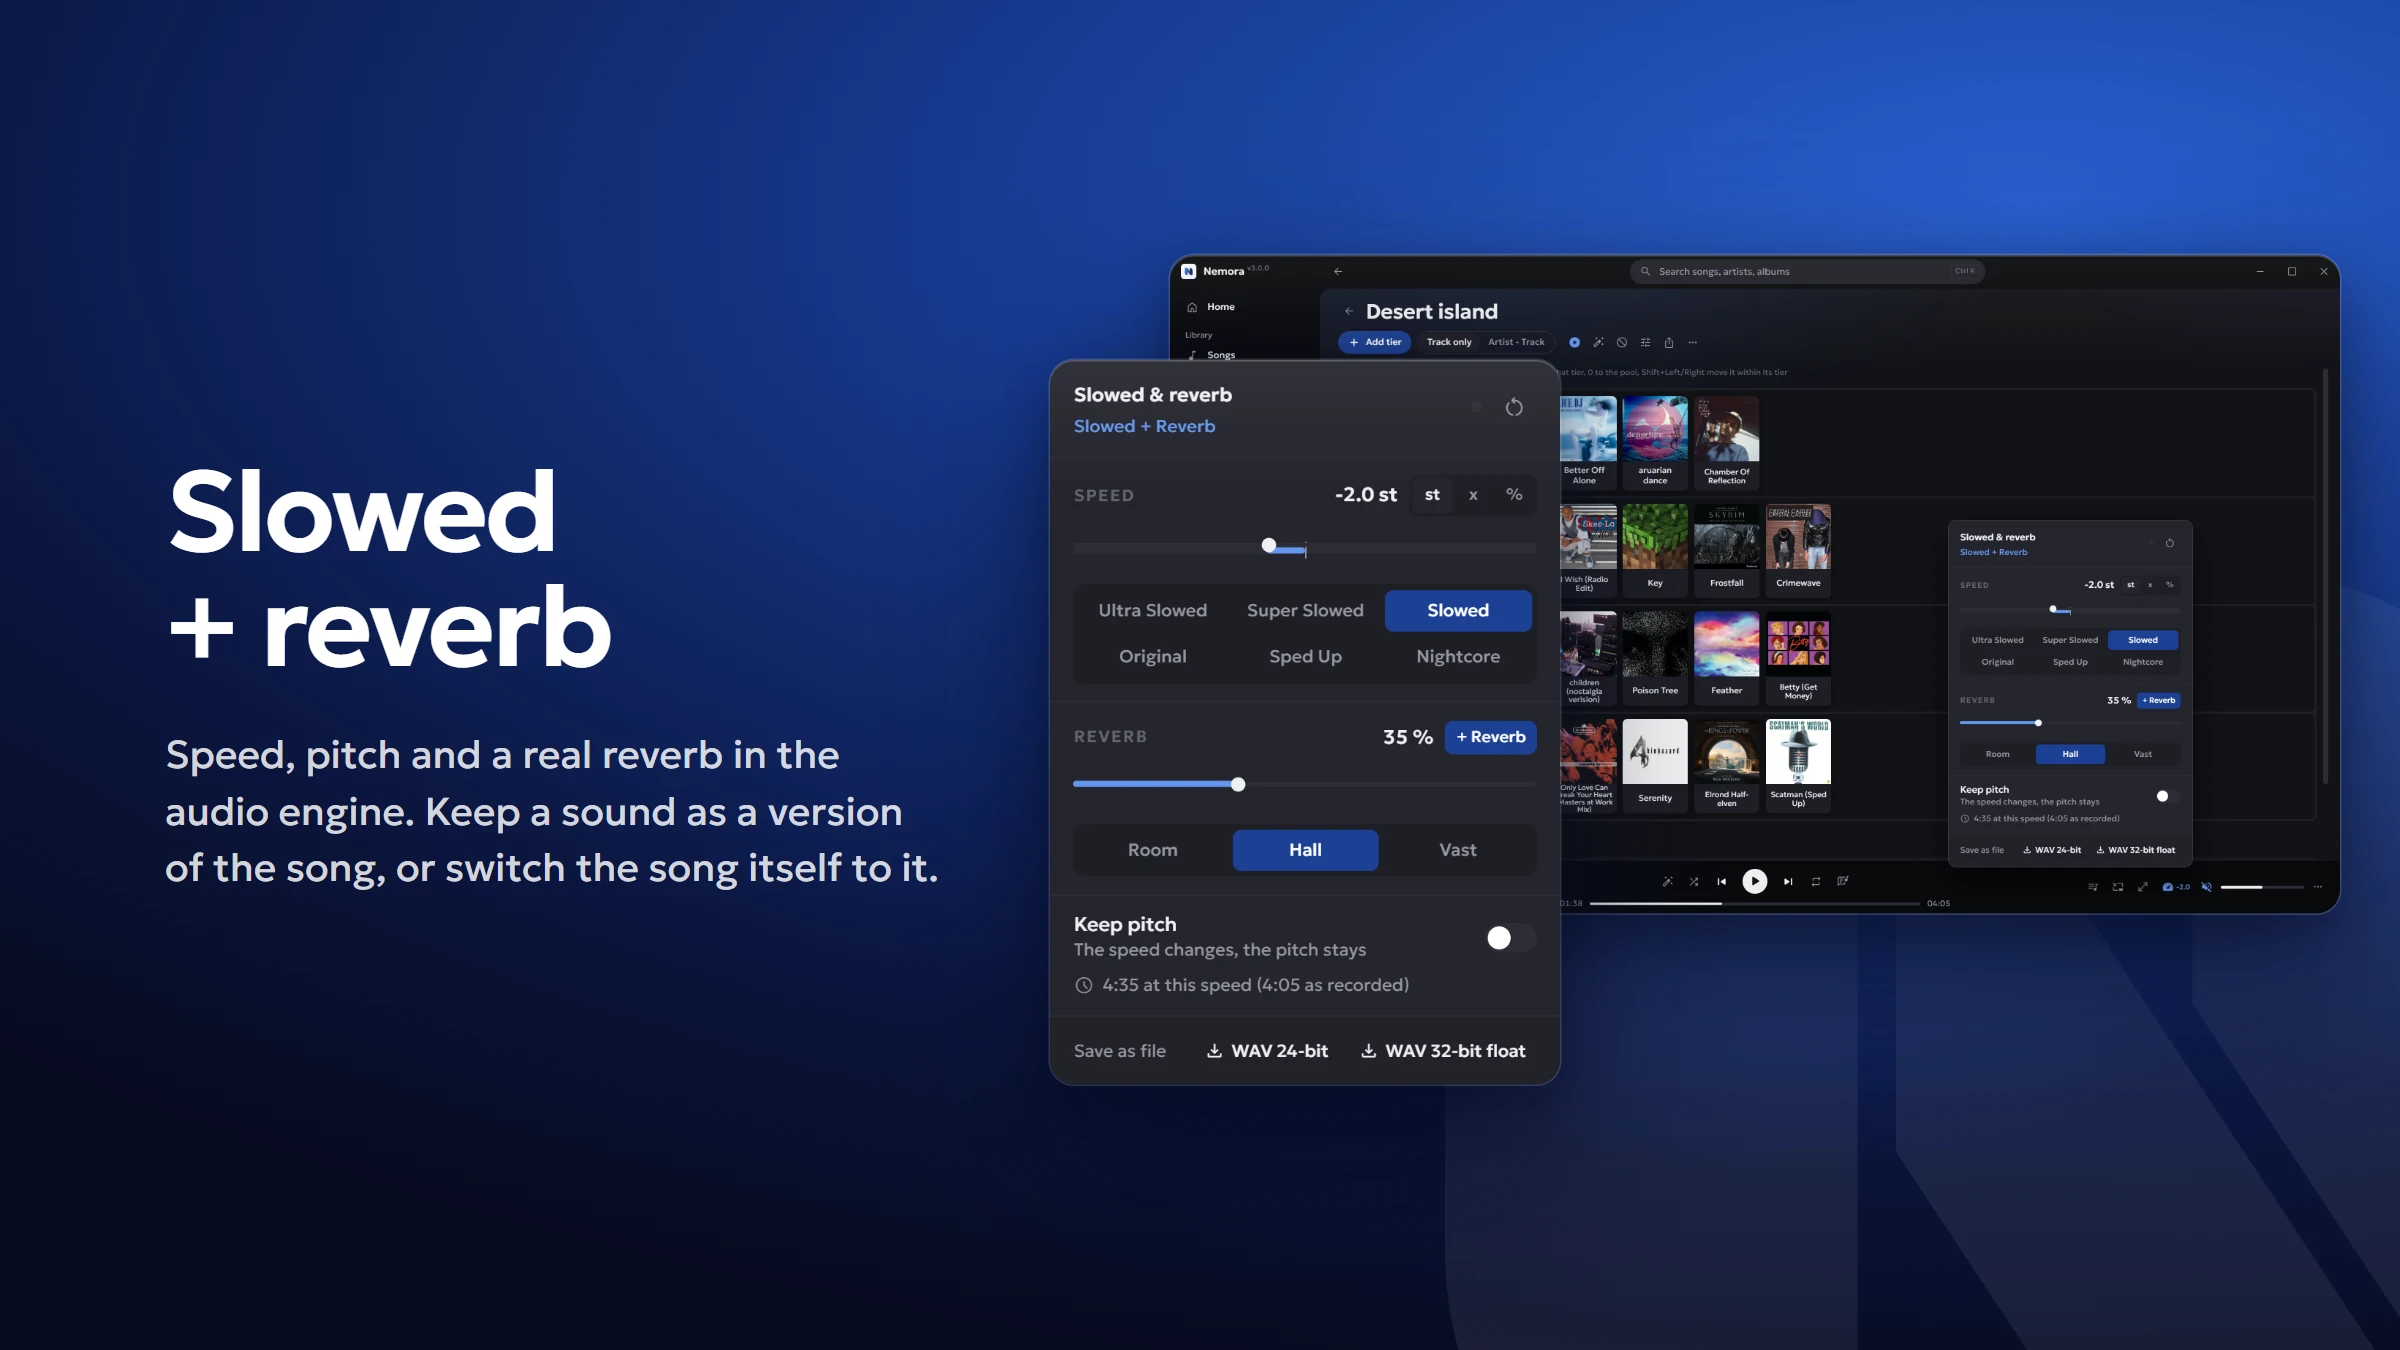
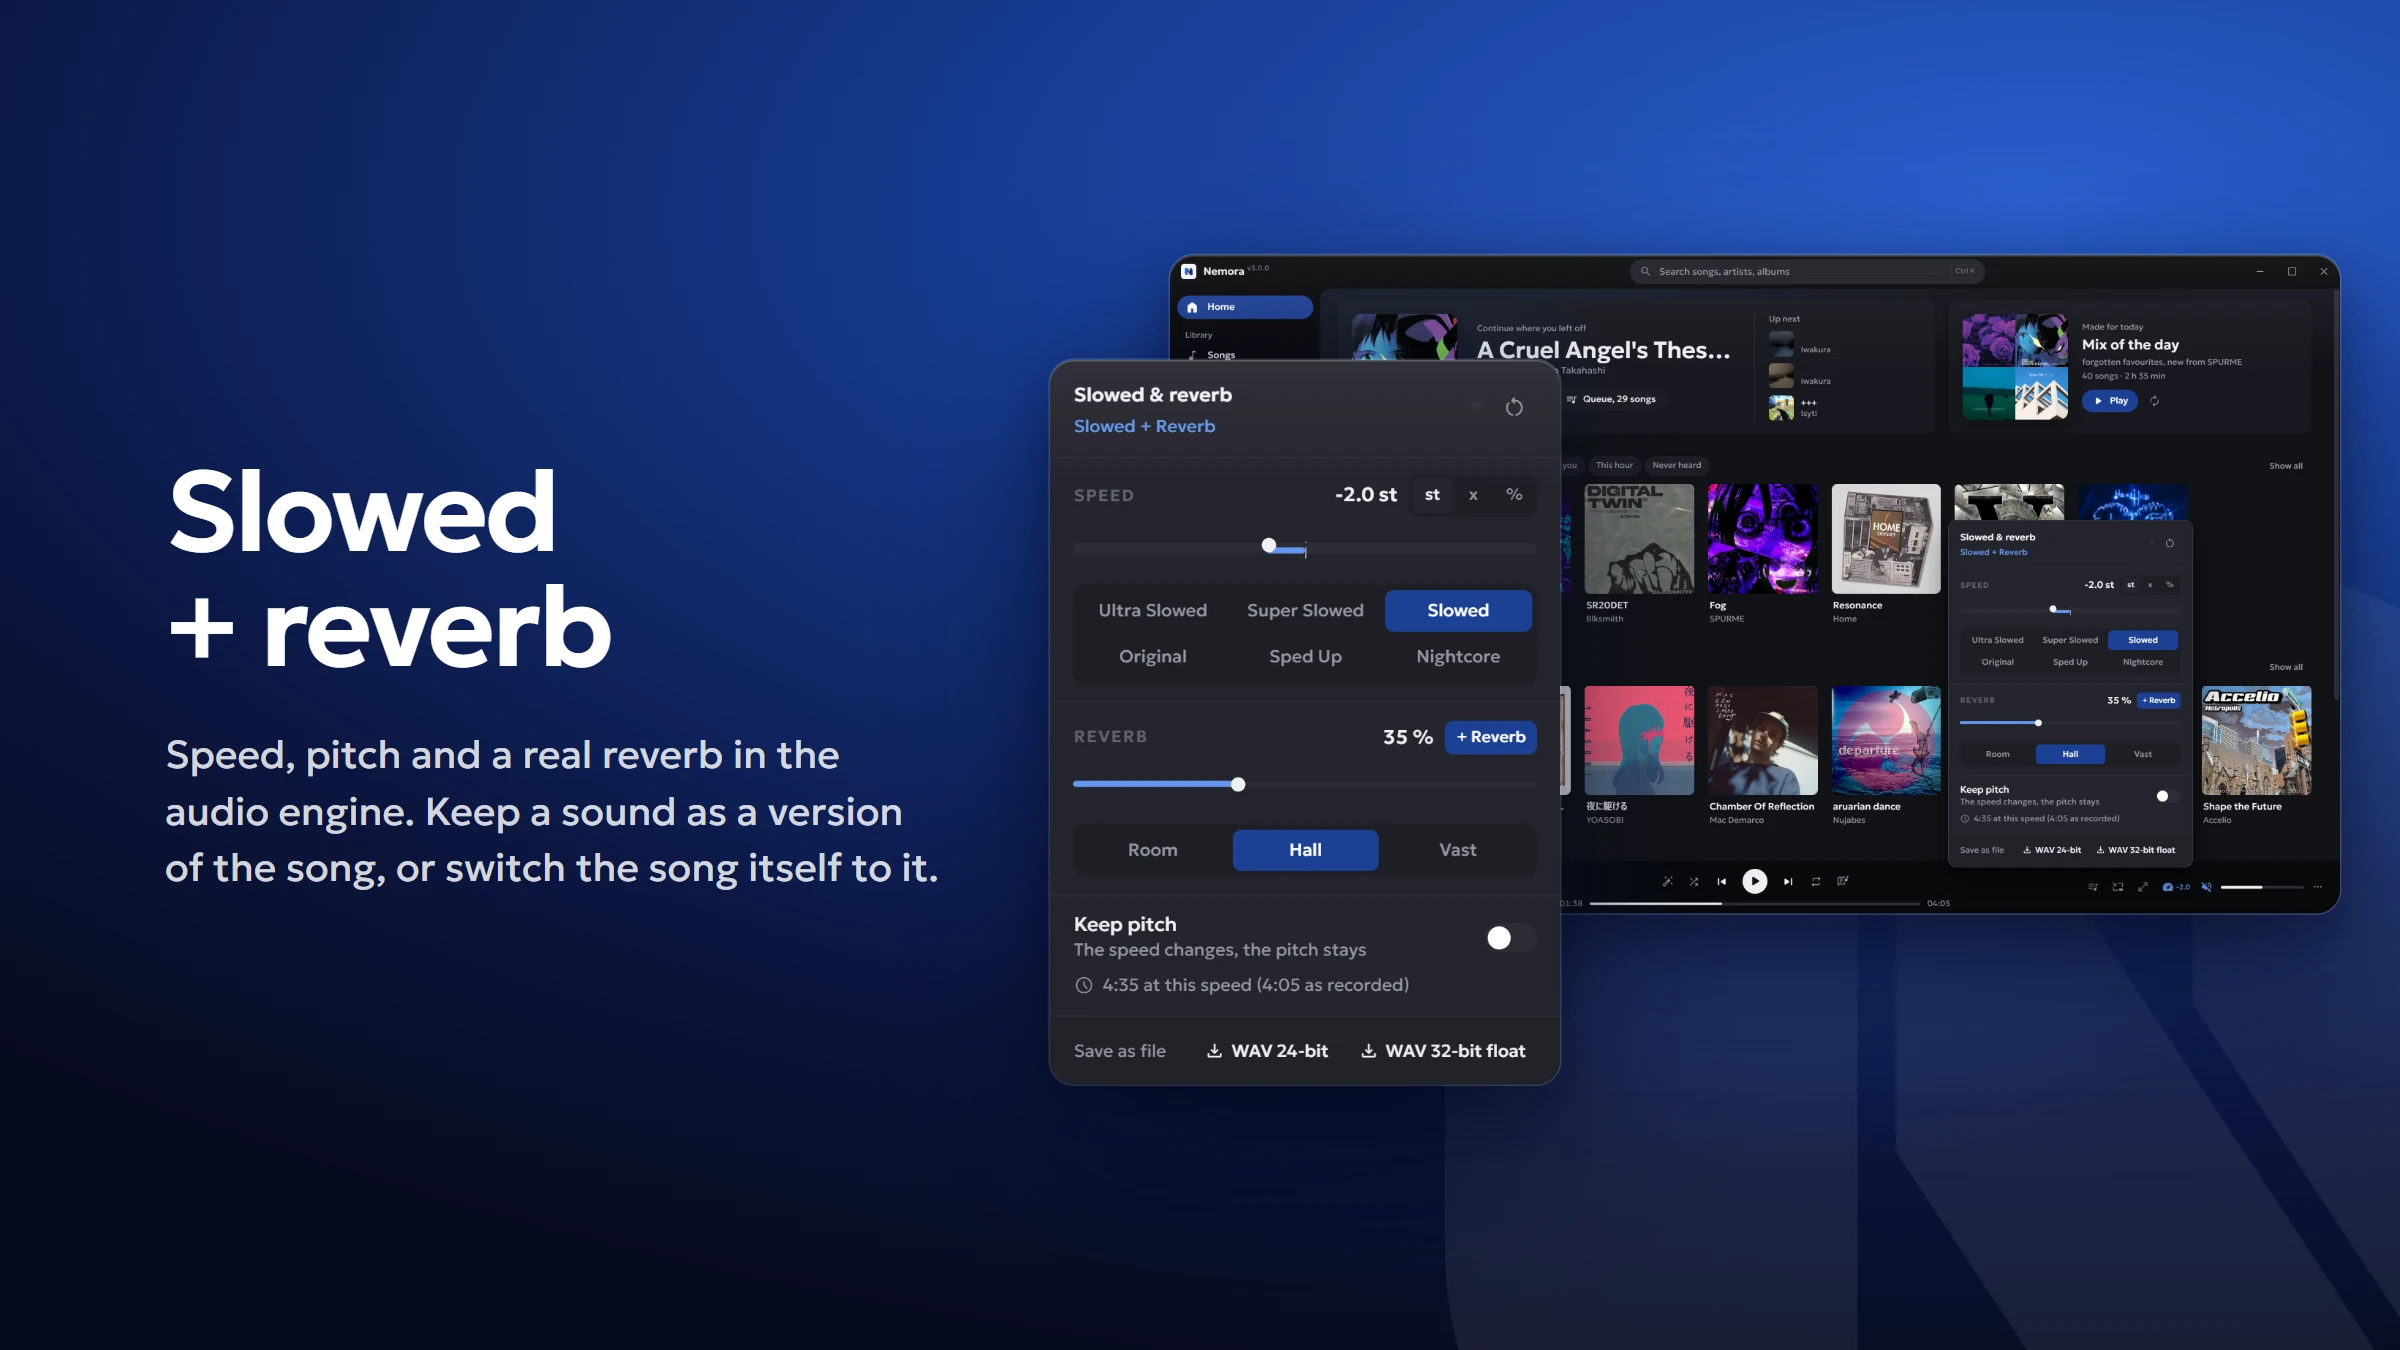
README cards: Slowed + reverb and Make it yours show Home behind their panels, not the sample tierlist and the search page (r-sound opens the panel over Home, the yours card uses r-home)

diff --git a/tools/readme/compose.py b/tools/readme/compose.py
@@ -67,7 +67,7 @@ CARDS = [
          title="Ask an AI<br>about your music",
          text="Connect Claude or another agent over MCP: it reads your library and stats, builds playlists, runs the queue. You choose how much it may do."),
     dict(key="yours", bg="sky", side="right",
-         shots=[("r-search", "dark", None, (60, 340, 700)), ("37-accent-picker", "light", (458, 65, 1561, 520), (200, 120, 680))],
+         shots=[("r-home", "dark", None, (60, 340, 700)), ("37-accent-picker", "light", (458, 65, 1561, 520), (200, 120, 680))],
          title="Make it<br>yours",
          text="Light and dark themes, eight accent colours, five frame shades, thirteen languages."),
 ]
